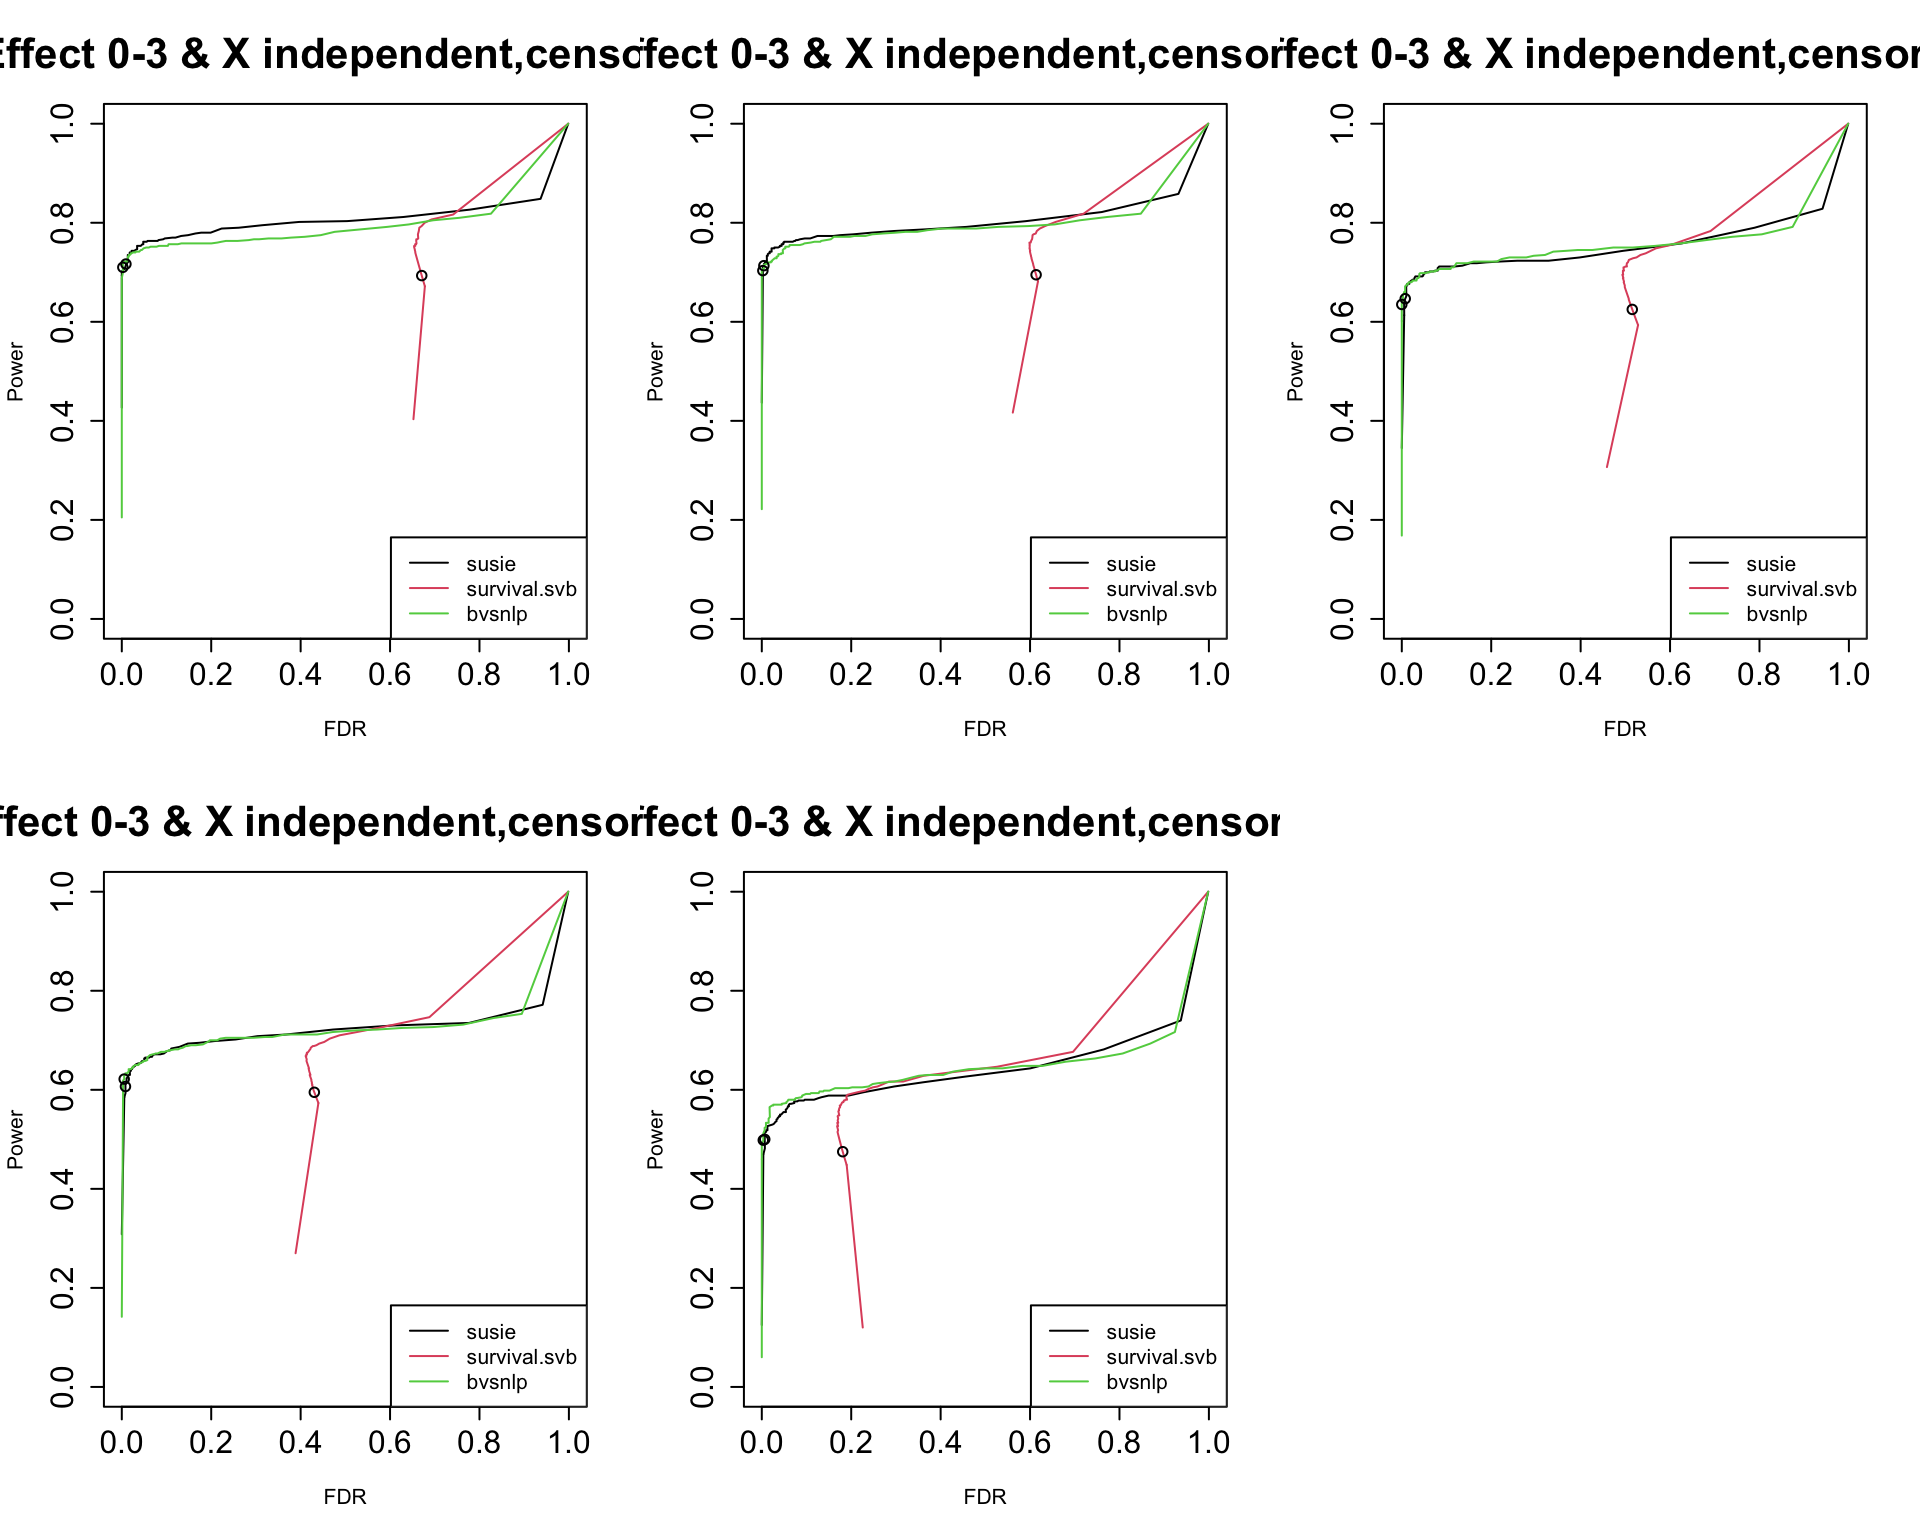
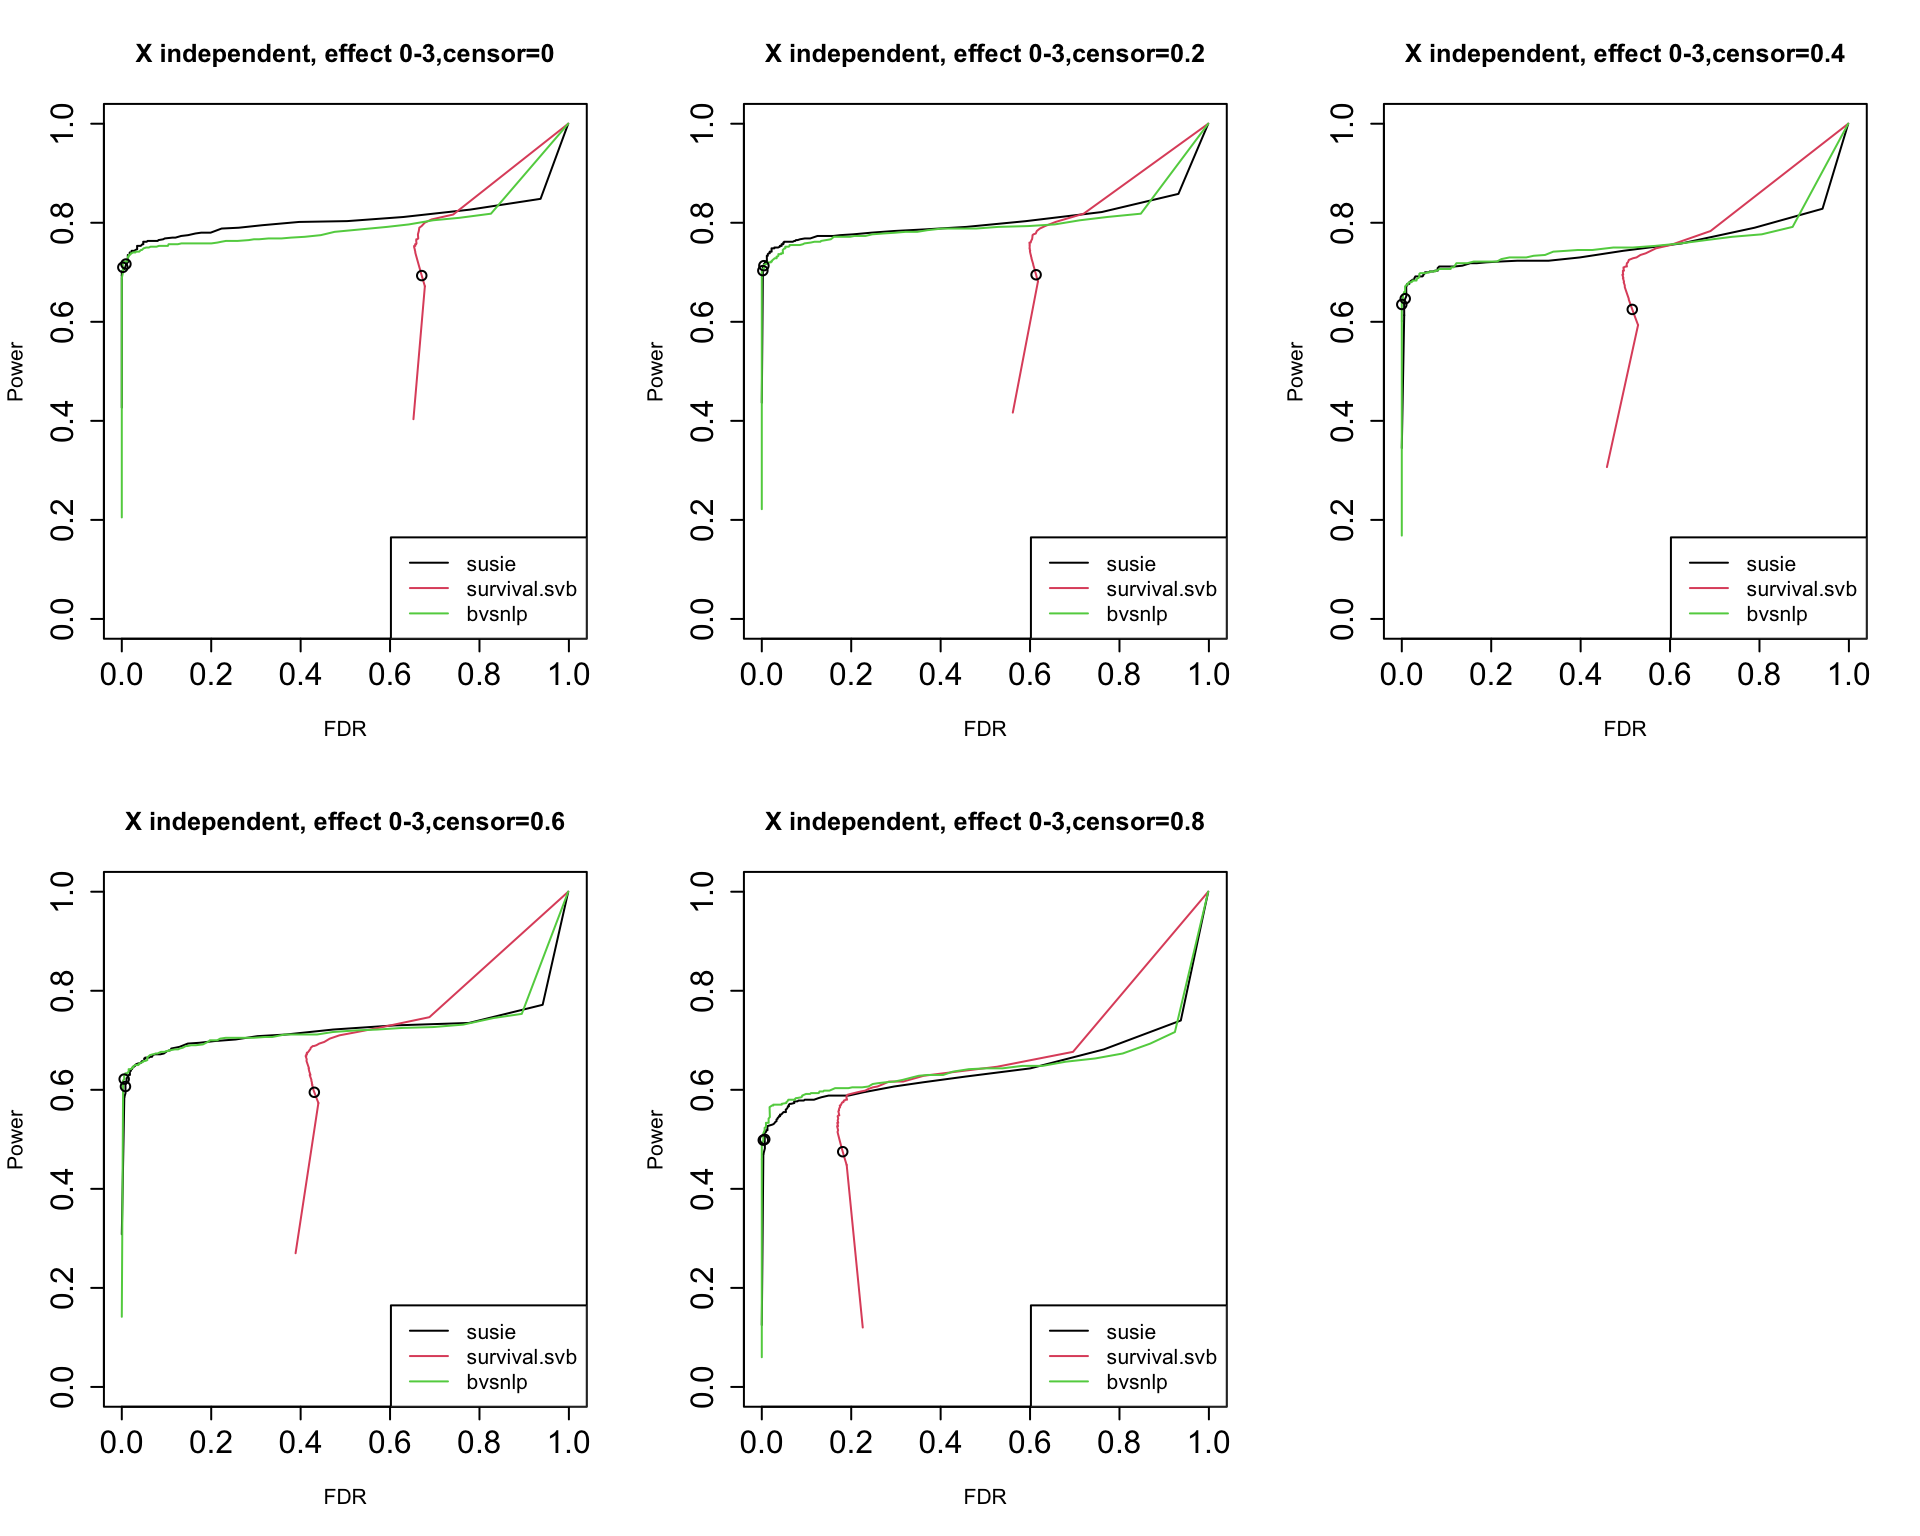
Build site.

Changed region(s): [[0.0, 0.0312, 1.0, 0.0625], [0.0, 0.5, 0.6562, 0.5625]]

diff --git a/docs/dsc_sim3.html b/docs/dsc_sim3.html
@@ -475,16 +475,16 @@ This reproducible <a href="http://rmarkdown.rstudio.com">R Markdown</a> analysis
 <div class="panel panel-default">
 <div class="panel-heading">
 <p class="panel-title">
-<a data-toggle="collapse" data-parent="#workflowr-checks" href="#strongRepositoryversionstrongahrefhttpsgithubcomyunqiyang0215survivalsusietreefbc4aa5663cffc374260167e28c8439f2866c0cbtargetblankfbc4aa5a"> <span class="glyphicon glyphicon-ok text-success" aria-hidden="true"></span> <strong>Repository version:</strong> <a href="https://github.com/yunqiyang0215/survival-susie/tree/fbc4aa5663cffc374260167e28c8439f2866c0cb" target="_blank">fbc4aa5</a> </a>
+<a data-toggle="collapse" data-parent="#workflowr-checks" href="#strongRepositoryversionstrongahrefhttpsgithubcomyunqiyang0215survivalsusietree27eeffb1576de6866343830566f07e3fb57dedbctargetblank27eeffba"> <span class="glyphicon glyphicon-ok text-success" aria-hidden="true"></span> <strong>Repository version:</strong> <a href="https://github.com/yunqiyang0215/survival-susie/tree/27eeffb1576de6866343830566f07e3fb57dedbc" target="_blank">27eeffb</a> </a>
 </p>
 </div>
[2 lines of base64/hex data omitted]
 <div class="panel-body">
 <p>
 Great! You are using Git for version control. Tracking code development and connecting the code version to the results is critical for reproducibility.
 </p>
 <p>
-The results in this page were generated with repository version <a href="https://github.com/yunqiyang0215/survival-susie/tree/fbc4aa5663cffc374260167e28c8439f2866c0cb" target="_blank">fbc4aa5</a>. See the <em>Past versions</em> tab to see a history of the changes made to the R Markdown and HTML files.
+The results in this page were generated with repository version <a href="https://github.com/yunqiyang0215/survival-susie/tree/27eeffb1576de6866343830566f07e3fb57dedbc" target="_blank">27eeffb</a>. See the <em>Past versions</em> tab to see a history of the changes made to the R Markdown and HTML files.
 </p>
 <p>
 Note that you need to be careful to ensure that all relevant files for the analysis have been committed to Git prior to generating the results (you can use <code>wflow_publish</code> or <code>wflow_git_commit</code>). workflowr only checks the R Markdown file, but you know if there are other scripts or data files that it depends on. Below is the status of the Git repository when the results were generated:
@@ -551,6 +551,40 @@ Message
 </tr>
 </thead>
 <tbody>
+<tr>
+<td>
+Rmd
+</td>
+<td>
+<a href="https://github.com/yunqiyang0215/survival-susie/blob/27eeffb1576de6866343830566f07e3fb57dedbc/analysis/dsc_sim3.Rmd" target="_blank">27eeffb</a>
+</td>
+<td>
+yunqiyang0215
+</td>
+<td>
+2023-04-26
+</td>
+<td>
+wflow_publish("analysis/dsc_sim3.Rmd")
+</td>
+</tr>
+<tr>
+<td>
+html
+</td>
+<td>
+<a href="https://rawcdn.githack.com/yunqiyang0215/survival-susie/3157ada5507e7d496a58ac01325fb59504abcbbf/docs/dsc_sim3.html" target="_blank">3157ada</a>
+</td>
+<td>
+yunqiyang0215
+</td>
+<td>
+2023-04-26
+</td>
+<td>
+Build site.
+</td>
+</tr>
 <tr>
 <td>
 Rmd
@@ -624,7 +658,7 @@ for (i in 1:5){
   res.bvsnlp = calculate_tpr_vs_fdr(pip.bvsnlp, is_effect, ts)
   
   plot(res.susie[,2], res.susie[,1], type = &quot;l&quot;, xlim = c(0,1), ylim = c(0, 1), xlab = &quot;FDR&quot;, ylab = &quot;Power&quot;,
-       main = paste0(&quot;Effect 0-3&quot;, &quot;,censor=&quot;, censor_lvl[i]))
+       main = paste0(&quot;Real correlation, effect 0-3&quot;, &quot;,censor=&quot;, censor_lvl[i]))
   lines(res.svb[,2], res.svb[,1], type = &quot;l&quot;, col = 2)
   lines(res.bvsnlp[,2], res.bvsnlp[,1], type = &quot;l&quot;, col = 3)
   
@@ -634,7 +668,45 @@ for (i in 1:5){
   
   legend(&quot;topleft&quot;, legend = c(&quot;susie&quot;, &quot;survival.svb&quot;, &quot;bvsnlp&quot;), col = c(1,2,3), lty = 1)
 }</code></pre>
-<p><img src="figure/dsc_sim3.Rmd/unnamed-chunk-3-1.png" width="1152" style="display: block; margin: auto;" /> The dots indicate PIP threshold = 0.95</p>
+<p><img src="figure/dsc_sim3.Rmd/unnamed-chunk-3-1.png" width="1152" style="display: block; margin: auto;" /></p>
+<p>
+<button type="button" class="btn btn-default btn-xs btn-workflowr btn-workflowr-fig" data-toggle="collapse" data-target="#fig-unnamed-chunk-3-1">
+Past versions of unnamed-chunk-3-1.png
+</button>
+</p>
+<div id="fig-unnamed-chunk-3-1" class="collapse">
+<div class="table-responsive">
+<table class="table table-condensed table-hover">
+<thead>
+<tr>
+<th>
+Version
+</th>
+<th>
+Author
+</th>
+<th>
+Date
+</th>
+</tr>
+</thead>
+<tbody>
+<tr>
+<td>
+<a href="https://github.com/yunqiyang0215/survival-susie/blob/3157ada5507e7d496a58ac01325fb59504abcbbf/docs/figure/dsc_sim3.Rmd/unnamed-chunk-3-1.png" target="_blank">3157ada</a>
+</td>
+<td>
+yunqiyang0215
+</td>
+<td>
+2023-04-26
+</td>
+</tr>
+</tbody>
+</table>
+</div>
+</div>
+<p>The dots indicate PIP threshold = 0.95</p>
 </div>
 <div id="results-using-independent-x-without-data-from-null-model." class="section level3">
 <h3>2. Results using independent X, without data from null model.</h3>
@@ -656,7 +728,7 @@ for (i in 1:5){
   
   
   plot(res.susie[,2], res.susie[,1], type = &quot;l&quot;, xlim = c(0, 0.1), ylim = c(0, 1), xlab = &quot;FDR&quot;, ylab = &quot;Power&quot;,
-       main = paste0(&quot;Effect 1-3 &amp; X independent&quot;, &quot;,censor=&quot;, censor_lvl[i]), cex.main = 2)
+       main = paste0(&quot;X independent, effect 1-3&quot;, &quot;,censor=&quot;, censor_lvl[i]))
   lines(res.svb[,2], res.svb[,1], type = &quot;l&quot;, col = 2)
   lines(res.bvsnlp[,2], res.bvsnlp[,1], type = &quot;l&quot;, col = 3)
   points(res.susie[96,2], res.susie[96, 1])
@@ -665,6 +737,43 @@ for (i in 1:5){
   legend(&quot;bottomright&quot;, legend = c(&quot;susie&quot;, &quot;survival.svb&quot;, &quot;bvsnlp&quot;), col = c(1,2,3), lty = 1)
 }</code></pre>
 <p><img src="figure/dsc_sim3.Rmd/unnamed-chunk-4-1.png" width="1152" style="display: block; margin: auto;" /></p>
+<p>
+<button type="button" class="btn btn-default btn-xs btn-workflowr btn-workflowr-fig" data-toggle="collapse" data-target="#fig-unnamed-chunk-4-1">
+Past versions of unnamed-chunk-4-1.png
+</button>
+</p>
+<div id="fig-unnamed-chunk-4-1" class="collapse">
+<div class="table-responsive">
+<table class="table table-condensed table-hover">
+<thead>
+<tr>
+<th>
+Version
+</th>
+<th>
+Author
+</th>
+<th>
+Date
+</th>
+</tr>
+</thead>
+<tbody>
+<tr>
+<td>
+<a href="https://github.com/yunqiyang0215/survival-susie/blob/3157ada5507e7d496a58ac01325fb59504abcbbf/docs/figure/dsc_sim3.Rmd/unnamed-chunk-4-1.png" target="_blank">3157ada</a>
+</td>
+<td>
+yunqiyang0215
+</td>
+<td>
+2023-04-26
+</td>
+</tr>
+</tbody>
+</table>
+</div>
+</div>
 <p>The dots indicate PIP threshold = 0.95.</p>
 </div>
 <div id="results-using-independent-x-with-data-from-null-model." class="section level3">
@@ -688,7 +797,7 @@ for (i in 1:5){
   
   
   plot(res.susie[,2], res.susie[,1], type = &quot;l&quot;, xlim = c(0, 1), ylim = c(0, 1), xlab = &quot;FDR&quot;, ylab = &quot;Power&quot;,
-       main = paste0(&quot;Effect 0-3 &amp; X independent&quot;, &quot;,censor=&quot;, censor_lvl[i]), cex.main = 2)
+       main = paste0(&quot;X independent, effect 0-3&quot;, &quot;,censor=&quot;, censor_lvl[i]))
   lines(res.svb[,2], res.svb[,1], type = &quot;l&quot;, col = 2)
   lines(res.bvsnlp[,2], res.bvsnlp[,1], type = &quot;l&quot;, col = 3)
   points(res.susie[96,2], res.susie[96, 1])
@@ -697,6 +806,43 @@ for (i in 1:5){
   legend(&quot;bottomright&quot;, legend = c(&quot;susie&quot;, &quot;survival.svb&quot;, &quot;bvsnlp&quot;), col = c(1,2,3), lty = 1)
 }</code></pre>
 <p><img src="figure/dsc_sim3.Rmd/unnamed-chunk-5-1.png" width="960" style="display: block; margin: auto;" /></p>
+<p>
+<button type="button" class="btn btn-default btn-xs btn-workflowr btn-workflowr-fig" data-toggle="collapse" data-target="#fig-unnamed-chunk-5-1">
+Past versions of unnamed-chunk-5-1.png
+</button>
+</p>
+<div id="fig-unnamed-chunk-5-1" class="collapse">
+<div class="table-responsive">
+<table class="table table-condensed table-hover">
+<thead>
+<tr>
+<th>
+Version
+</th>
+<th>
+Author
+</th>
+<th>
+Date
+</th>
+</tr>
+</thead>
+<tbody>
+<tr>
+<td>
+<a href="https://github.com/yunqiyang0215/survival-susie/blob/3157ada5507e7d496a58ac01325fb59504abcbbf/docs/figure/dsc_sim3.Rmd/unnamed-chunk-5-1.png" target="_blank">3157ada</a>
+</td>
+<td>
+yunqiyang0215
+</td>
+<td>
+2023-04-26
+</td>
+</tr>
+</tbody>
+</table>
+</div>
+</div>
 <p>The dots indicate PIP threshold = 0.95.</p>
 <br>
 <p>
